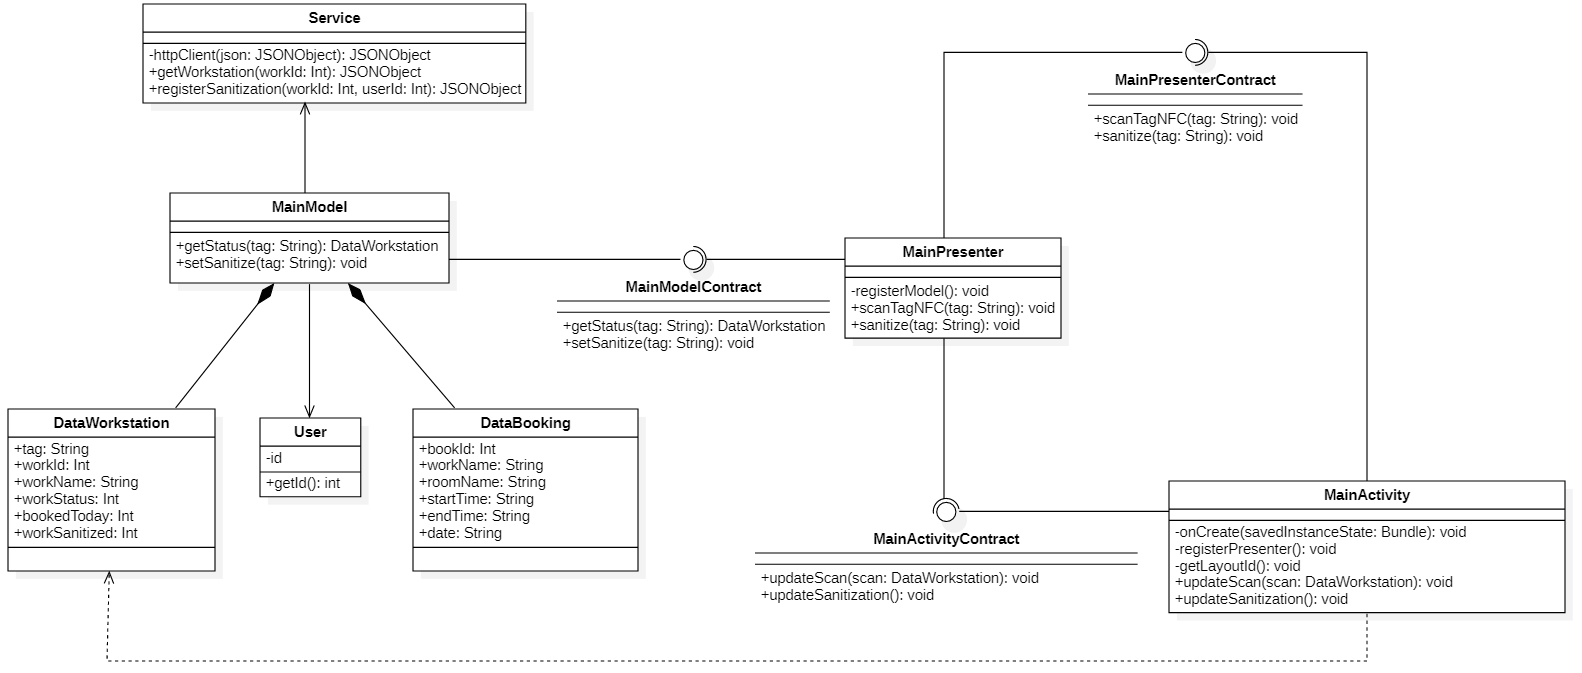
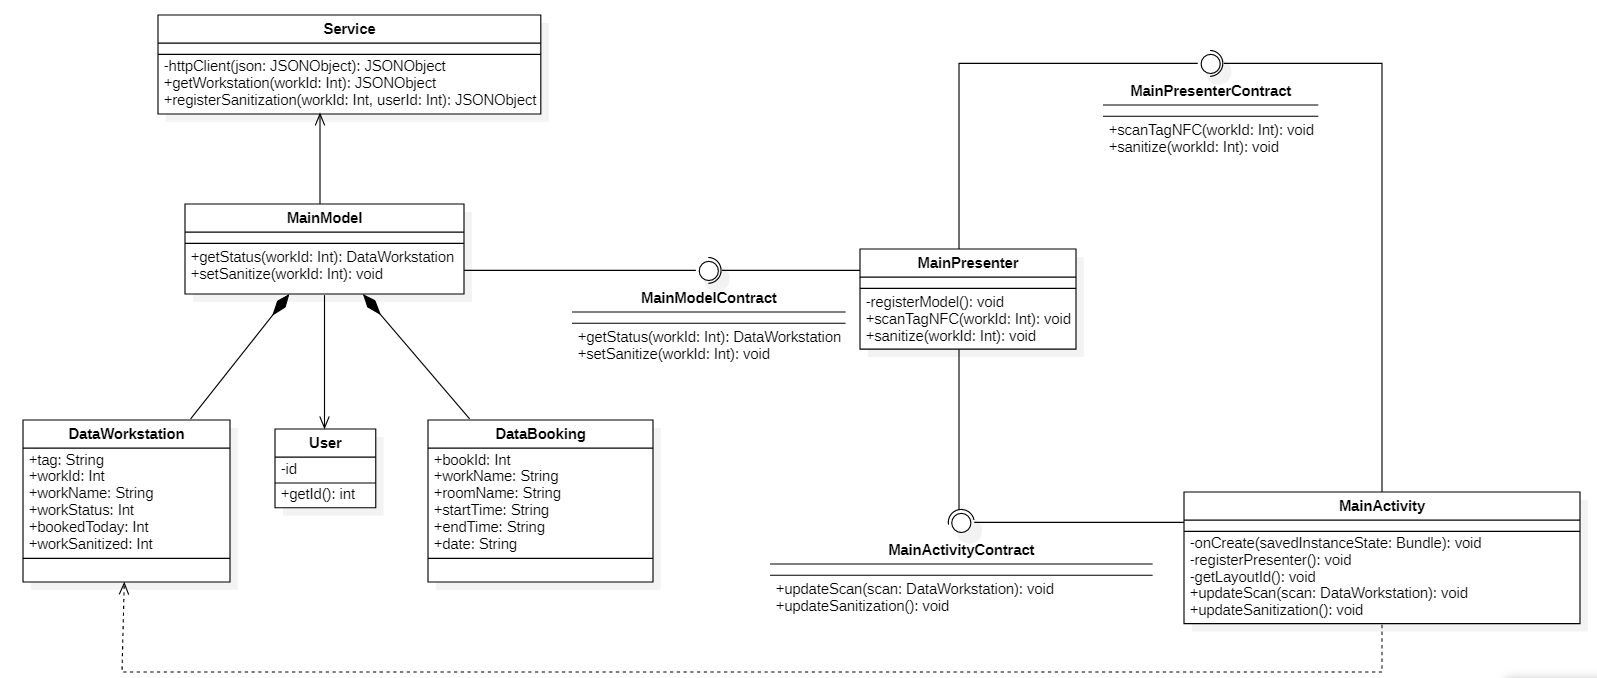
correzione

diff --git a/esterni/ManualeManutentore/res/sections/Apputenti.tex b/esterni/ManualeManutentore/res/sections/Apputenti.tex
@@ -285,14 +285,14 @@ La classe MainActivity offre i seguenti metodi:
 La classe MainPresenter offre i seguenti metodi:
 \begin{itemize}
 	\item \textbf{registerModel(): void}: associa il Model al Presenter; 
-	\item \textbf{scanTagNFC(tag: String): void}: Si occupa di richiedere al modello le informazioni riguardanti la postazione, così poi da ritornarle alla vista; 
-	\item \textbf{sanitize(tag: String): void}: Si occupa di richiedere al modello di igienizzare una postazione, così poi da ritornarlo alla vista. 
+	\item \textbf{scanTagNFC(workId:Int): void}: Si occupa di richiedere al modello le informazioni riguardanti la postazione, così poi da ritornarle alla vista; 
+	\item \textbf{sanitize(workId:Int): void}: Si occupa di richiedere al modello di igienizzare una postazione, così poi da ritornarlo alla vista. 
 \end{itemize}
 
 La classe MainModel offre i seguenti metodi:
 \begin{itemize}
-	\item \textbf{getStatus(tag: String): DataWorkstation}: Si occupa di richiedere al service le caratteristiche di una determinata postazione;
-	\item \textbf{setSanitize(tag: String): void}: Si occupa di richiedere al service di igienizzare una determinata postazione.
+	\item \textbf{getStatus(workId:Int): DataWorkstation}: Si occupa di richiedere al service le caratteristiche di una determinata postazione;
+	\item \textbf{setSanitize(workId:Int): void}: Si occupa di richiedere al service di igienizzare una determinata postazione.
 \end{itemize}
 
 La classe Service offre i seguenti metodi:
@@ -497,7 +497,7 @@ In conclusione per visualizzare la guida la vista chiamerà il metodo \textit{up
 Questo diagramma di sequenza rappresenta la serie di azioni svolte dall'applicazione quando viene premuto da un utente il bottone per rendere una postazione igienizzata.
 La sequenza inizia con la creazione della vista tramite il metodo \textit{onCreate}.
 Successivamente viene richiesto al Presenter di registrare l'igienizzazione della postazione da parte di un utente tramite il metodo \textit{sanitize} che a sua volta lo richiederà al Model attraverso il metodo \textit{setSanitize}.
-Il Model, per igienizzare una postazione, farà prima una chiamata alla classe User con il metodo \textit{getId} per ottenere l'id dello user.
+Il Model, per igienizzare una postazione, farà prima una chiamata alla classe DataWorkstation con il metodo \textit{getStatus} per ottenere l'id della Workstation e poi alla classe User con il metodo \textit{getId} per ottenere l'id dello user.
 Successivamente grazie al metodo \textit{registerSanitization}, che genera un json con l'id della postazione e l'id dell'utente, andrà a richiedere al Service di registrarla. Per registrarla il Service userà il metodo \textit{httpClient}.
 In seguito verranno fatte tutte le chiamate di ritorno, ovvero il risultato dell’operazione verrà ritornato al Model che lo ritornerà al Presenter che lo ritornerà a sua volta alla vista.
 In conclusione per visualizzare le nuove informazioni sulla postazione la vista chiamerà il metodo \textit{updateSanitization}.
